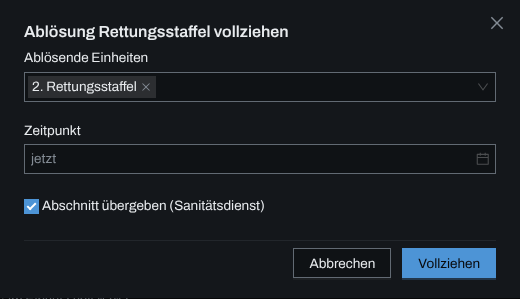
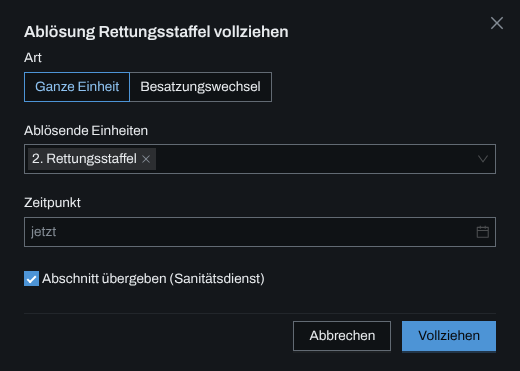
docs(abloesung): Kapitel „Ablösung“ um den Besatzungswechsel ergänzt (LLH-1150)
Neuer Ablauf „Die Besatzung wechseln“ mit Bild, Hintergrund
„Besatzungswechsel“, Zeitachse und Einsatztagebuch nachgezogen; der
Ablauf „Eine Ablösung vollziehen“ nennt die Art. Bilder neu:
besatzungswechsel(.dunkel).png und vollziehen(.dunkel).png (der Dialog hat
jetzt das Feld „Art“), erzeugt mit der Bilder-Spec gegen den echten Server.

Zunder: https://zunder.rubeen.dev/#/aufgabe/ip9uw7g64pgzn6bh5dj6rxyl

Claude-Session: https://claude.ai/code/session_01RG8qyEguGn1K1UTUsWxCqa

diff --git a/frontend/e2e/doku-bilder/abloesung.bilder.ts b/frontend/e2e/doku-bilder/abloesung.bilder.ts
@@ -1,5 +1,5 @@
 import type { APIRequestContext } from '@playwright/test';
-import { waehleIn } from '../auswahl-kern';
+import { waehleIn, waehleStehend, zeigtWahl } from '../auswahl-kern';
 import {
   anmelden,
   apiAlsAdmin,
@@ -22,6 +22,8 @@ import {
  *   schicht-beginnen.png frontend/src/abloesung/AbloesungDialoge.tsx (`SchichtBeginnenDialog`)
  *   vollziehen.png       frontend/src/abloesung/AbloesungDialoge.tsx (Vollzugsdialog mit Ablöser-Liste und
  *                        „Abschnitt übergeben“, LLH-1132), frontend/src/abloesung/abloeser.ts
+ *   besatzungswechsel.png frontend/src/abloesung/AbloesungDialoge.tsx (Vollzugsdialog mit Art
+ *                        „Besatzungswechsel“, LLH-1150), frontend/src/abloesung/besatzung.ts
  *   vorgaben.png         frontend/src/pages/AbloesungPage.tsx (Paneel „Rhythmus je Abschnitt“)
  *   einsatz-vorgabe.png  frontend/src/pages/AbloesungPage.tsx (Paneel „Vorgabe des Einsatzes“),
  *                        frontend/src/abloesung/schichtmodellText.ts, frontend/src/abloesung/dauer.ts
@@ -36,6 +38,9 @@ import {
  * geplanten Ablöser per Nachtrag eintreffen (mit der Vorgabe des Einsatzes begänne jede andere
  * Einheit beim Eintreffen ihre Schicht von selbst, er nicht) und die Betreuungsgruppe alarmieren,
  * noch ohne Eintreffen.
+ *
+ * Besatzungswechsel (LLH-1150): die Spec disponiert zwei Kräfte ohne Einheit („Lena Brandt“,
+ * „Tom Weber“), aus denen der Dialog die neue Besatzung wählt.
  */
 
 const KAPITEL = 'abloesung';
@@ -114,6 +119,9 @@ test.describe(KAPITEL, () => {
         art: 'alarmierung',
         zeitpunkt_at: draht(vor(jetzt, 40)),
       });
+      for (const name of ['Lena Brandt', 'Tom Weber']) {
+        await fuelle(api, 'post', `${basis}/personal`, { adhoc: { name } });
+      }
     } finally {
       await api.dispose();
     }
@@ -192,5 +200,31 @@ test.describe(KAPITEL, () => {
     await page.mouse.move(0, 0);
     await expect.poll(async () => (await dialog.boundingBox())?.width ?? 0).toBeGreaterThan(400);
     await fotografiere(dialog, KAPITEL, 'vollziehen');
+  });
+
+  test('Dialog „Ablösung vollziehen“ als Besatzungswechsel', async ({ page }) => {
+    await anmelden(page);
+    const demo = await demoEinsatz(page);
+    await uhrAnhalten(page);
+    await page.goto(`/einsaetze/${demo.id}/abloesung`);
+    const karte = page.getByRole('article', { name: 'Schicht Sanitätszug Musterstadt' });
+    await karte.getByRole('button', { name: 'Ablösung vollziehen' }).click();
+    const dialog = page.getByRole('dialog', {
+      name: 'Ablösung Sanitätszug Musterstadt vollziehen',
+    });
+    await dialog.getByText('Besatzungswechsel', { exact: true }).click();
+    await expect(dialog.locator('[data-lfh="vollzug-bisherige-besatzung"]')).not.toContainText('…');
+    // Die Liste ist virtuell und lang (alle Kräfte des Demo-Einsatzes): erst suchen, dann wählen.
+    const feld = dialog.getByRole('combobox', { name: 'Neue Besatzung' });
+    for (const name of ['Lena Brandt', 'Tom Weber']) {
+      await feld.click();
+      await feld.pressSequentially(name);
+      await waehleStehend(page, name);
+      await zeigtWahl(feld, name);
+    }
+    await feld.blur();
+    await page.mouse.move(0, 0);
+    await expect.poll(async () => (await dialog.boundingBox())?.width ?? 0).toBeGreaterThan(400);
+    await fotografiere(dialog, KAPITEL, 'besatzungswechsel');
   });
 });

diff --git a/docs/anwender/kapitel/abloesung.md b/docs/anwender/kapitel/abloesung.md
@@ -2,7 +2,7 @@
 titel: Ablösung
 gruppen: [fuehrung]
 reihenfolge: 360
-quellen: [frontend/src/pages/AbloesungPage.tsx, frontend/src/abloesung/AbloesungKarte.tsx, frontend/src/abloesung/OhneSchichtKarte.tsx, frontend/src/abloesung/ohneSchicht.ts, frontend/src/abloesung/zufluss.ts, frontend/src/abloesung/AbloesungDialoge.tsx, frontend/src/abloesung/einstufung.ts, frontend/src/kommunikation/rueckgaengig.tsx, frontend/src/einsatz/AlarmZentrale.tsx, frontend/src/einsatz/schreibrecht.ts, frontend/src/api/queryKeys.ts, src/routes/abloesung.rs, src/abloesung/repo.rs, src/abloesung/kopplung.rs, src/zeitachse/repo.rs, src/abloesung/hinweis.rs, src/erinnerung/benachrichtigung.rs, src/benachrichtigung/text.rs, src/bereitstellungsraum/eintreffen.rs, src/schichtmodell/mod.rs, frontend/src/abloesung/dauer.ts, frontend/src/abloesung/planungWarnung.ts, frontend/src/abloesung/abloeser.ts, frontend/src/abloesung/schichtmodellText.ts, frontend/src/components/vorgabeText.ts, openspec/specs/kraefte-abloesung/spec.md]
+quellen: [frontend/src/pages/AbloesungPage.tsx, frontend/src/abloesung/AbloesungKarte.tsx, frontend/src/abloesung/OhneSchichtKarte.tsx, frontend/src/abloesung/ohneSchicht.ts, frontend/src/abloesung/zufluss.ts, frontend/src/abloesung/AbloesungDialoge.tsx, frontend/src/abloesung/einstufung.ts, frontend/src/kommunikation/rueckgaengig.tsx, frontend/src/einsatz/AlarmZentrale.tsx, frontend/src/einsatz/schreibrecht.ts, frontend/src/api/queryKeys.ts, src/routes/abloesung.rs, src/abloesung/repo.rs, src/abloesung/kopplung.rs, src/zeitachse/repo.rs, src/abloesung/hinweis.rs, src/erinnerung/benachrichtigung.rs, src/benachrichtigung/text.rs, src/bereitstellungsraum/eintreffen.rs, src/schichtmodell/mod.rs, frontend/src/abloesung/dauer.ts, frontend/src/abloesung/planungWarnung.ts, frontend/src/abloesung/abloeser.ts, frontend/src/abloesung/besatzung.ts, frontend/src/abloesung/schichtmodellText.ts, frontend/src/components/vorgabeText.ts, openspec/specs/kraefte-abloesung/spec.md]
 ---
 
 ## Überblick
@@ -73,7 +73,8 @@ Für Einsatzleitung und Führungspersonal:
 
 Für Einsatzleitung und Führungspersonal:
 
-1. Auf der Karte „Ablösung vollziehen“ wählen.
+1. Auf der Karte „Ablösung vollziehen“ wählen. Unter „Art“ steht „Ganze Einheit“; für einen
+   Wechsel nur der Mannschaft siehe den nächsten Ablauf.
 2. Unter „Ablösende Einheiten“ die Einheiten wählen, die übernehmen, höchstens acht; die geplanten
    stehen schon dort. Ohne ablösende Einheit bleibt das Feld leer. Eine Einheit mit „· Schicht
    läuft“ hat schon eine eigene Schicht; der Vollzug übernimmt sie.
@@ -88,6 +89,27 @@ Für Einsatzleitung und Führungspersonal:
    Einheit beginnt eine Folgeschicht mit demselben Rhythmus.
 6. War es die falsche Karte, in der Meldung „Rückgängig“ wählen. Später geht das unter „Vergangen“,
    „Abgelöst“ mit „Vollzug zurücknehmen“, solange jede Folgeschicht unberührt ist.
+
+### Die Besatzung wechseln
+
+Für Einsatzleitung und Führungspersonal, wenn das Fahrzeug vor Ort bleibt und nur die Mannschaft
+getauscht wird:
+
+1. Auf der Karte „Ablösung vollziehen“ wählen.
+2. Unter „Art“ „Besatzungswechsel“ wählen. Statt der ablösenden Einheiten steht „Bisherige
+   Besatzung“ mit den Personen der Einheit und ihrer Untereinheiten, die in ihrer Schicht
+   mitlaufen.
+3. Unter „Neue Besatzung“ die Personen wählen, die übernehmen. Wer schon zur bisherigen Besatzung
+   gehört, fehlt in der Liste; wer eine andere Einheit führt, steht dort gesperrt mit „· führt …“.
+
+   ![Dialog „Ablösung Sanitätszug Musterstadt vollziehen“ mit Art „Besatzungswechsel“, der bisherigen Besatzung und den neuen Personen „Lena Brandt“ und „Tom Weber“](../bilder/abloesung/besatzungswechsel.png)
+
+4. „Zeitpunkt“ leer lassen für jetzt oder den Zeitpunkt des Wechsels wählen.
+5. „Vollziehen“ wählen. Die Einheit behält ihr Fahrzeug, ihren Abschnitt und eine Folgeschicht mit
+   demselben Rhythmus; die abgelöste Schicht steht unter „Vergangen“, „Abgelöst“ mit
+   „Besatzungswechsel · neu: …“.
+6. „Rückgängig“ in der Meldung oder später „Vollzug zurücknehmen“ stellt die alte Besatzung wieder
+   her.
 
 ### Ablösende Einheit planen und Rhythmus ändern
 
@@ -217,6 +239,22 @@ nichts ändert sich.
 Eine als Ablöser geplante Einheit beginnt mit ihrem Eintreffen keine eigene Schicht, ebenso wenig
 die Untereinheiten eines geplanten Verbands.
 
+### Besatzungswechsel
+
+Beim Besatzungswechsel bleiben die Einheit, ihr Fahrzeug und ihr Abschnitt; die Folgeschicht
+läuft an derselben Einheit weiter, ihre Untereinheiten laufen wie vorher darin mit. Die bisherige
+Besatzung sind alle Personen, die beim Vollzug der Einheit oder einer dieser Untereinheiten
+zugeordnet sind. Sie verlassen ihre Einheit, ein Fahrzeug dieser Einheiten und eine Führung dort
+und bleiben im Einsatz, ohne Einheit. Die neue Besatzung kommt in die Einheit selbst; wer sie auf
+Untereinheiten und Fahrzeuge verteilt, tut das danach im Modul Einheiten. Eine Person, die eine
+andere Einheit führt, lässt sich nicht wählen, bis sie die Führung dort abgibt.
+
+Die Rücknahme legt jede Person zurück, solange sie noch so steht, wie der Wechsel sie hinterlassen
+hat; wer danach von Hand umgehängt wurde, bleibt dort. Der Besatzungswechsel braucht die Module
+Einheiten und Personal; fehlt eines, steht „Besatzungswechsel“ gesperrt mit „Modul Einheiten
+gesperrt“ bzw. „Modul Personal gesperrt“. Einsatzdauer und Ruhezeit je Person rechnet die Ablösung
+nicht; sie stehen in der Kräfte-Zeitachse.
+
 ### Abschnitt übergeben
 
 Mit „Abschnitt übergeben“ werden die ablösenden Einheiten dem Abschnitt der abgelösten Einheit
@@ -277,7 +315,9 @@ ihre Zeile sofort weg. Dasselbe gilt für neue Schichten unter „Laufend“.
 
 Der Vollzug schreibt an der abgelösten Einheit das Ereignis „Ablösung“ in die Kräfte-Zeitachse, mit
 dem ihr Einsatzabschnitt endet, ebenso an jeder Untereinheit, die in ihrer Schicht mitläuft, und
-an deren Personen; die Rücknahme streicht alle wieder. Dieses Ereignis lässt sich nicht
+an deren Personen; die Rücknahme streicht alle wieder. Ein Besatzungswechsel schreibt stattdessen
+nur an Personen: die bisherige Besatzung bekommt „Ablösung“, die neue „Eintreffen“; die Einheit
+behält ihren Einsatzabschnitt. Diese Ereignisse lassen sich nicht
 von Hand streichen (Kapitel [Meldebild und Kräfte-Zeitachse](meldebild.md)). Umgekehrt beginnt das
 Eintreffen einer Einheit ihre Schicht, und ihre Entlassung beendet sie (siehe oben).
 
@@ -285,7 +325,7 @@ Eintreffen einer Einheit ihre Schicht, und ihre Entlassung beendet sie (siehe ob
 
 Das Einsatztagebuch hält den Beginn einer Schicht (auch mit dem Eintreffen), Änderungen an Rhythmus
 und Planung, eine entfallene Planung, jeden Vollzug mit Einheit, ablösenden Einheiten,
-übernommener Schicht, übergebenem Abschnitt und Zeitpunkt, jede Rücknahme und das Ende mit der Entlassung fest. Eine Änderung der Vorgabe eines Abschnitts oder des Einsatzes steht
+übernommener Schicht, übergebenem Abschnitt und Zeitpunkt, beim Besatzungswechsel mit alter und neuer Besatzung, jede Rücknahme und das Ende mit der Entlassung fest. Eine Änderung der Vorgabe eines Abschnitts oder des Einsatzes steht
 dort als Entscheidung.
 
 ### Rechte und ohne Netz
